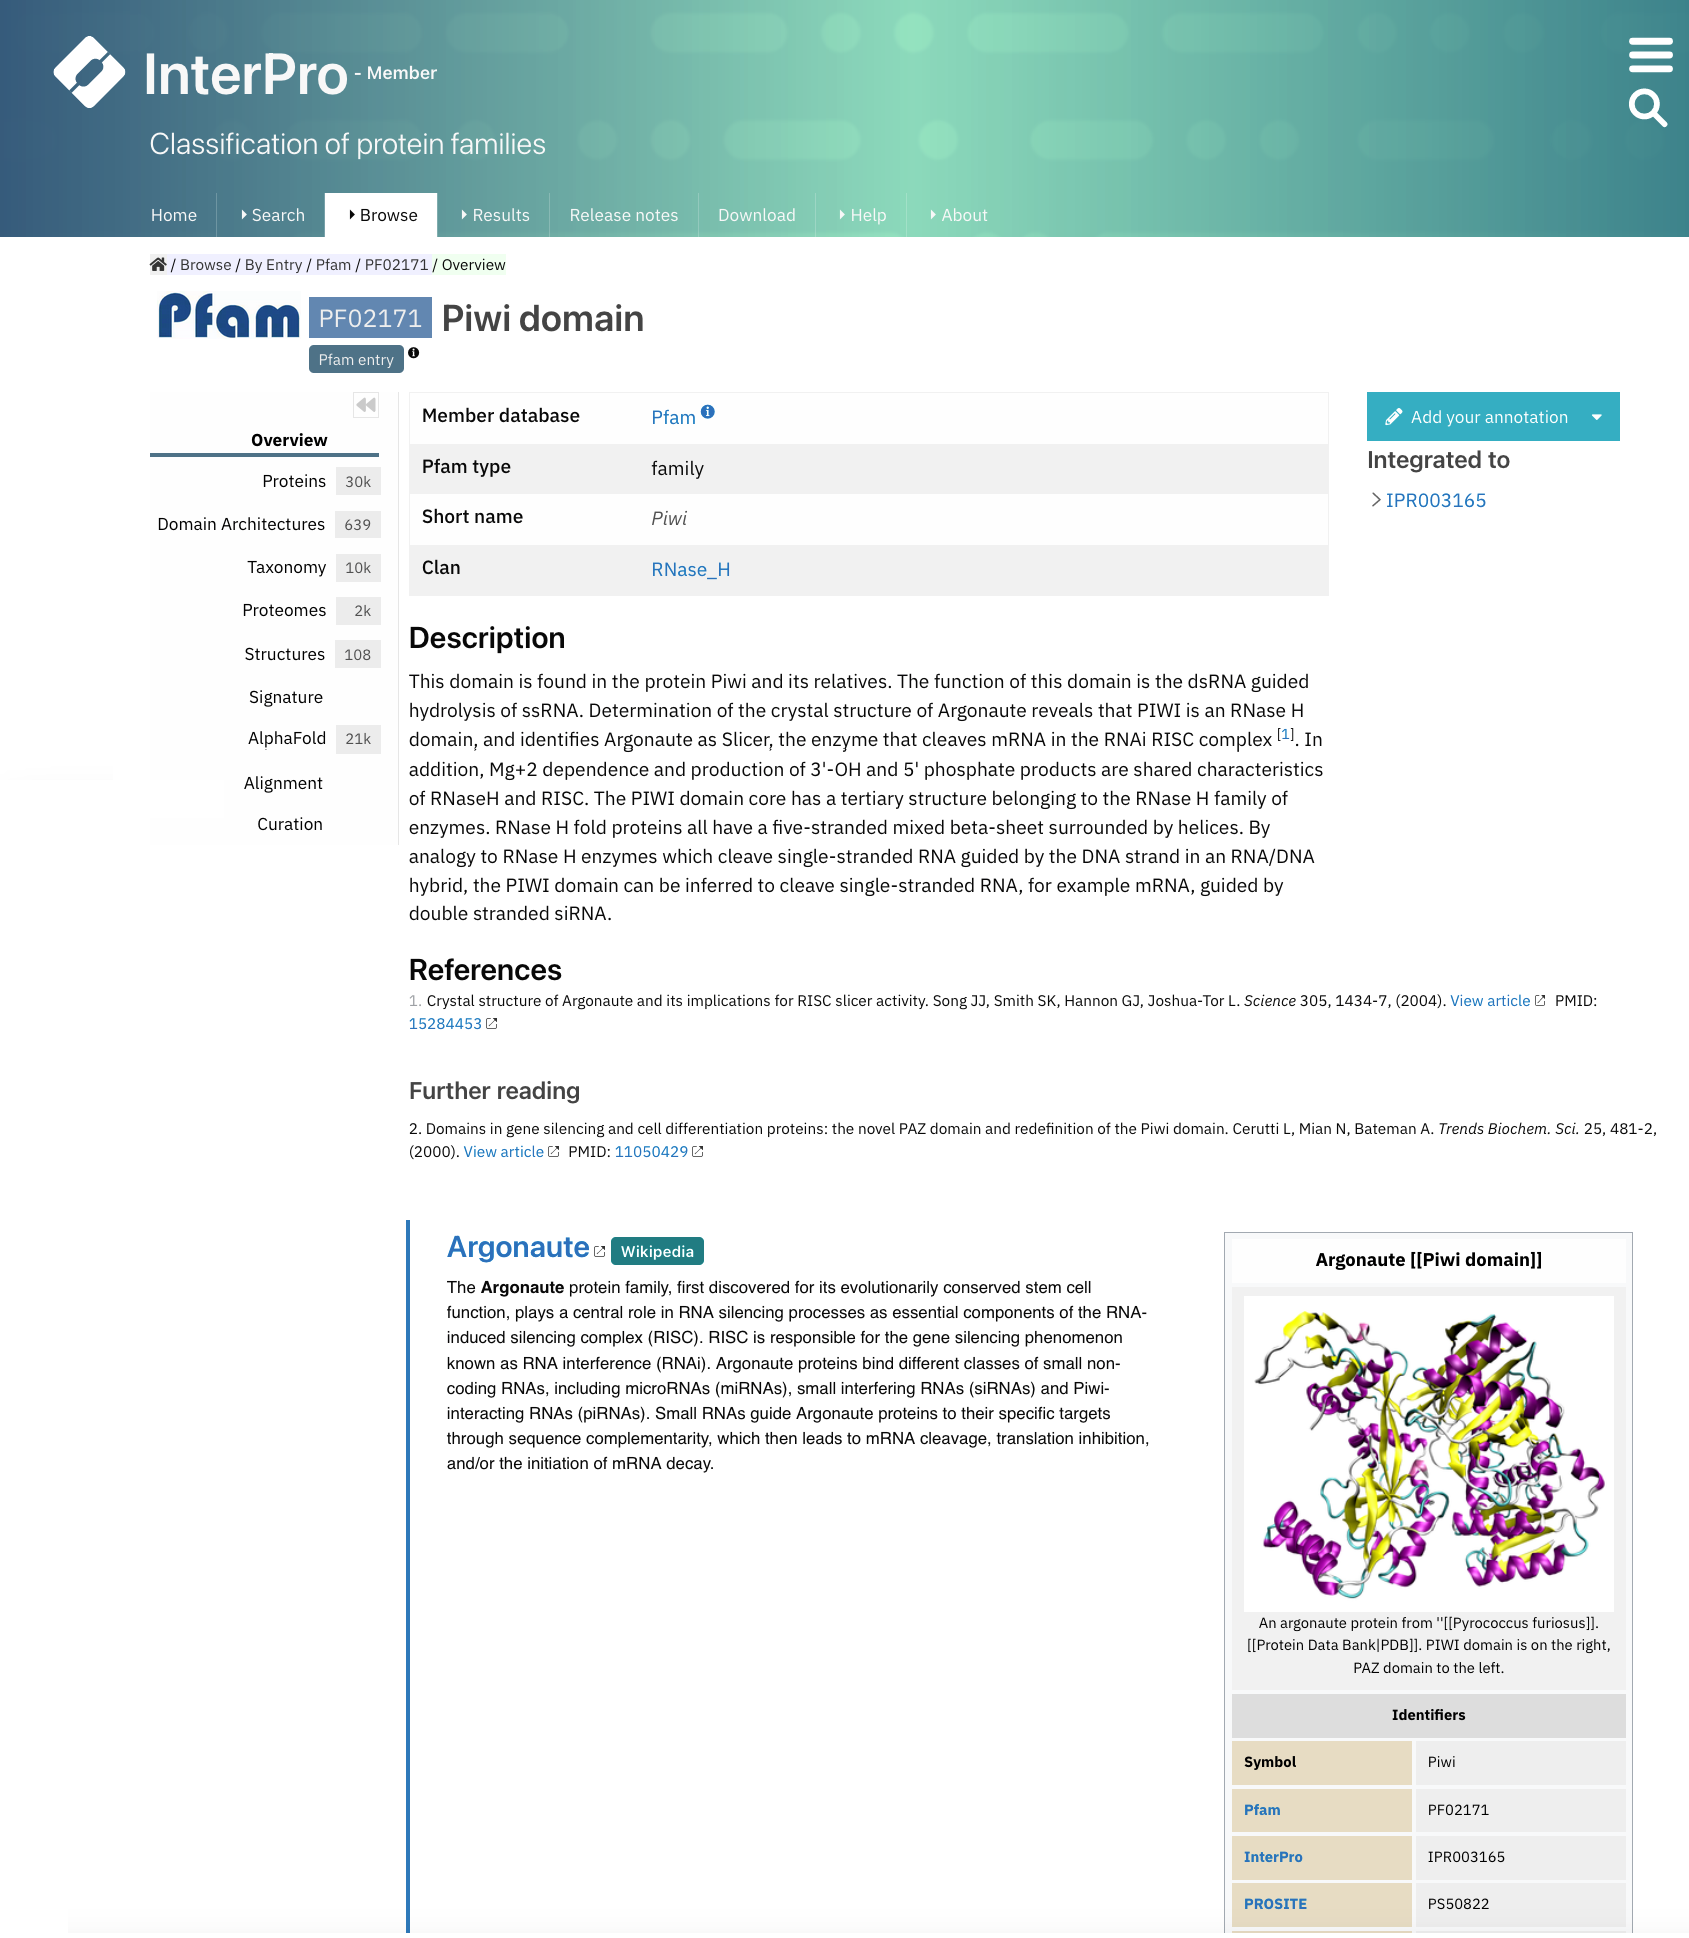
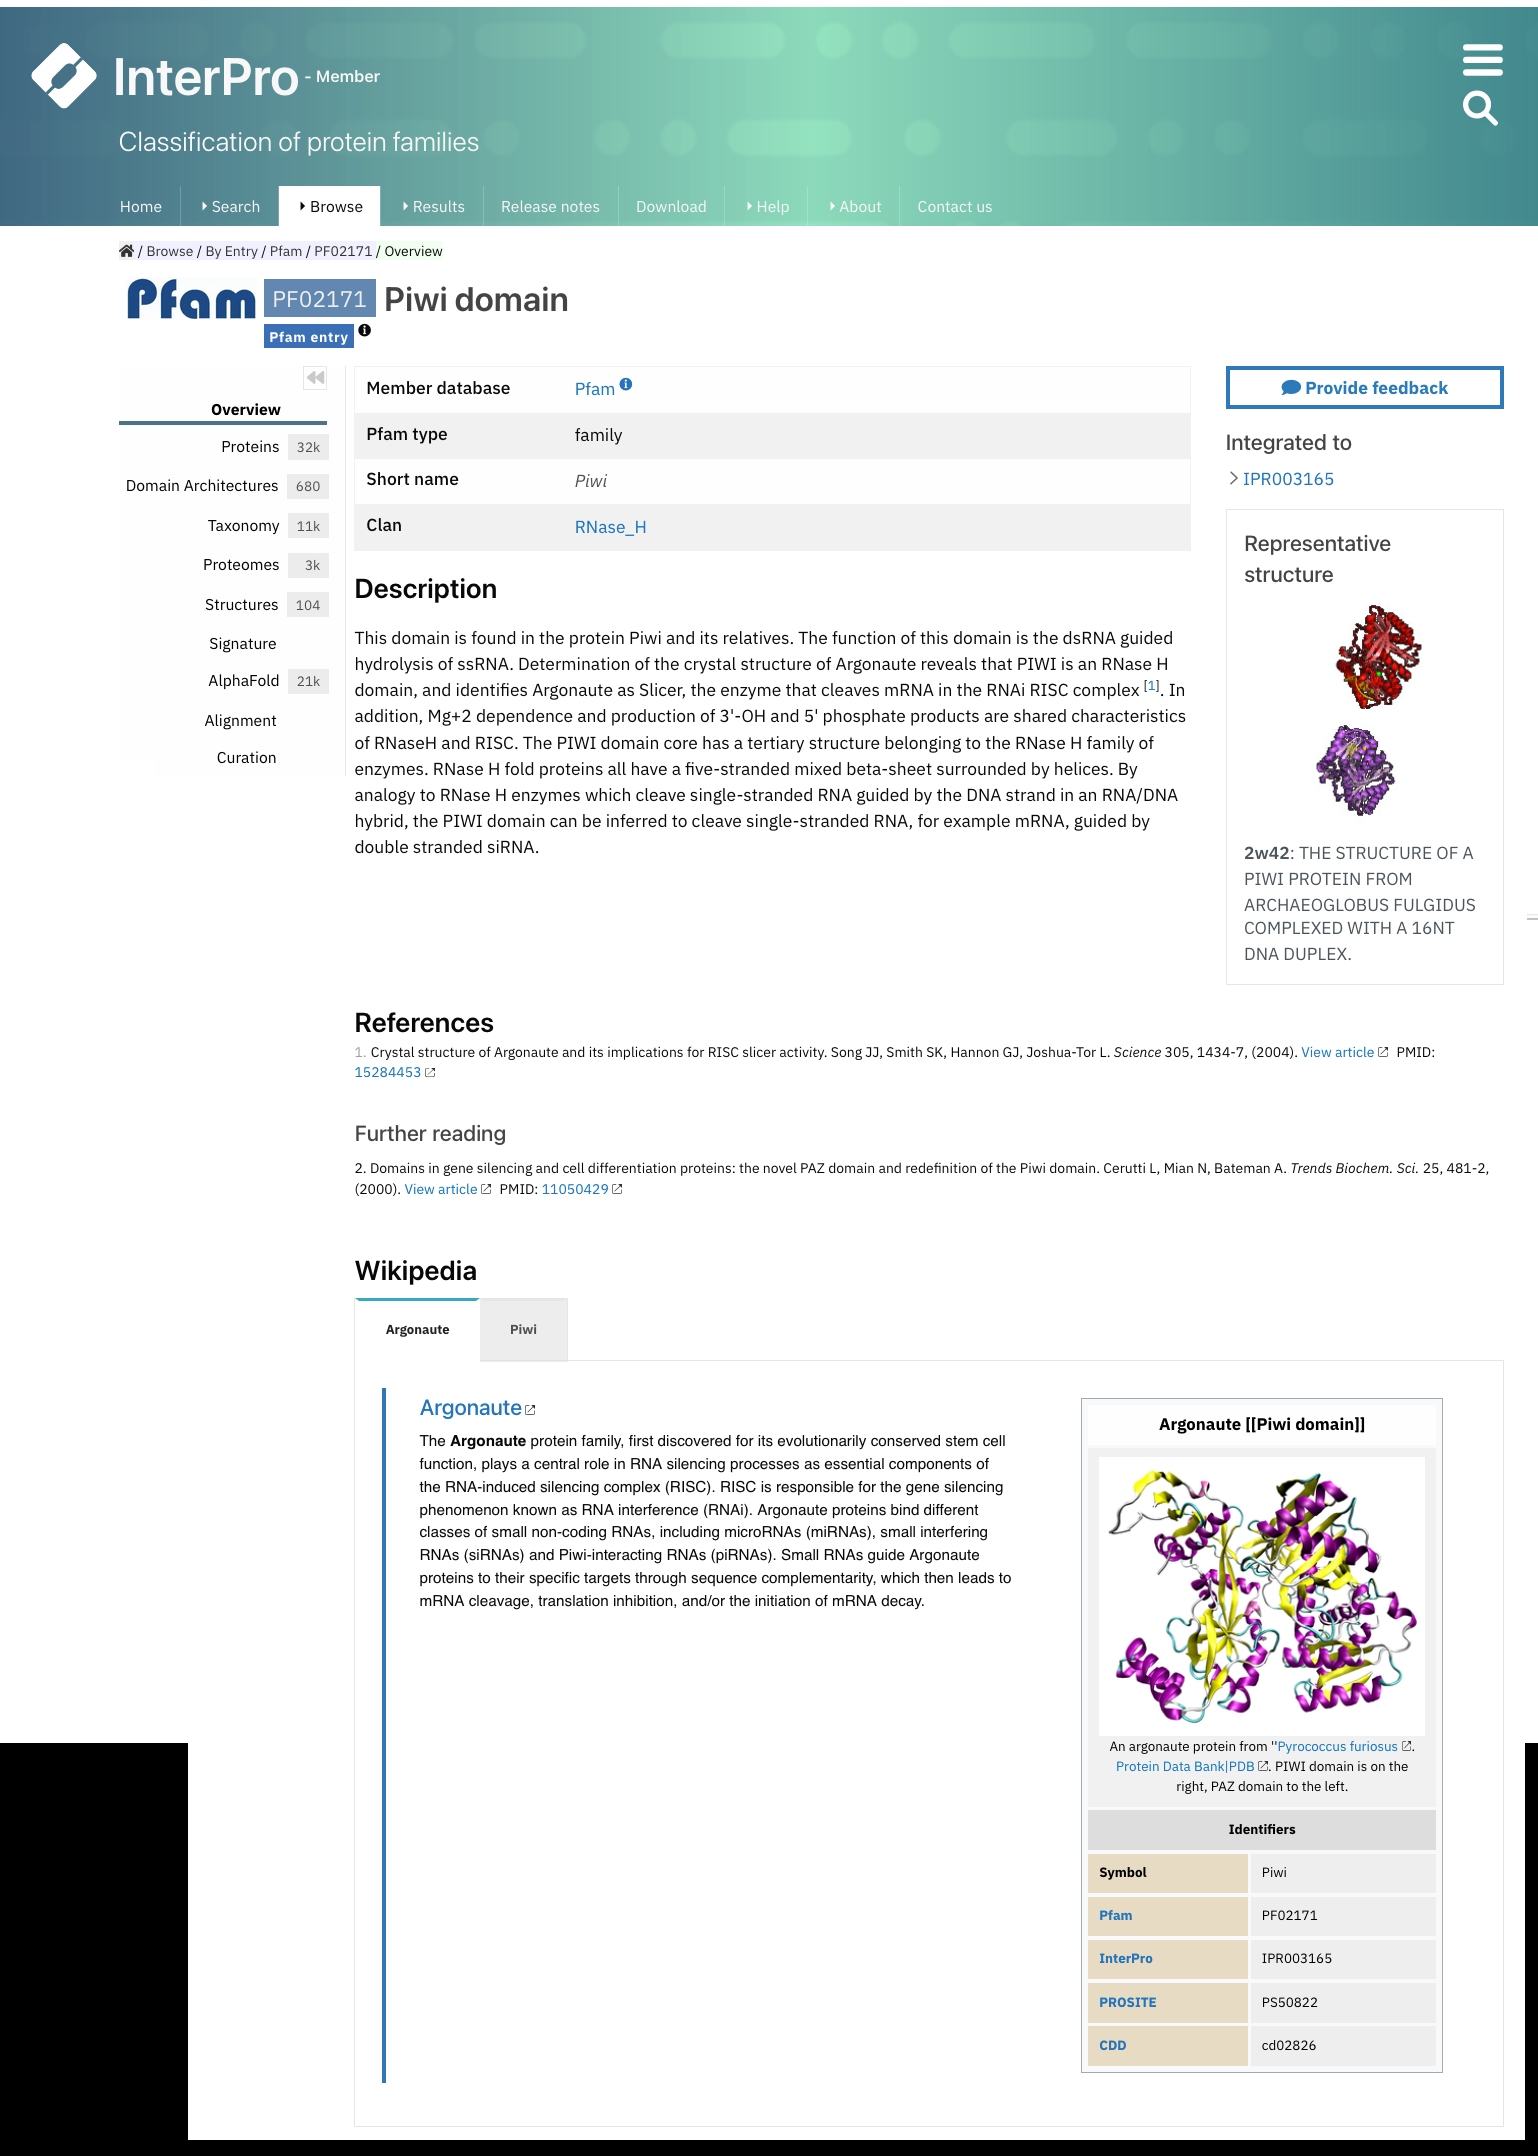
Updated for InterPro 101.0

Changed region(s): [[0.0, 0.0, 1.0, 1.0], [0.7802, 0.1548, 0.9675, 0.4334]]

diff --git a/docs/pfam-entry.rst b/docs/pfam-entry.rst
@@ -234,8 +234,9 @@ to minimise false positives (although they are unavoidable sometimes). The Pfam 
 UniProtKB database before every InterPro release and these are the matches shown in the :ref:`proteins` tab on the Pfam entry page.
 
 Different Pfam entries have annotations providing diverse amounts of information. Many of them have a description created 
-by Pfam curators. Anyone can contribute to this annotation by contacting directly the curators through the **Add your 
-annotation** toolbox located on the right-hand side of the **Overview** tab.
+by Pfam curators. Anyone can contribute to this annotation by contacting directly the curators through the **Provide
+ feedback** button located on the right-hand side of the **Overview** tab. This button links to a **Feedback** subpage 
+ that allows the user to suggest updates.
 
 If you know of a domain that is not present in Pfam, you can submit it to the `Pfam helpdesk <https://www.ebi.ac.uk/about/contact/support/pfam>`_ 
 and we will endeavour to build a Pfam entry for it. We ask that you supply us with a multiple sequence alignment of the domain 
@@ -247,7 +248,7 @@ Word (e.g. a .doc) file), and associated literature evidence if available.
   :width: 700
   :align: left
 
-  Select **Add your annotation** to give feedback to curators.
+  Select **Provide feedback** to give feedback to curators.
 
 In addition, Pfam encourages the annotation of Pfam families via Wikipedia. Below the traditional description of the Pfam entry, 
 you may find the text from a Wikipedia article that we feel provides a good description of the Pfam family. 

diff --git a/docs/searching-pfam.rst b/docs/searching-pfam.rst
@@ -11,14 +11,17 @@ Searching a specific Pfam entry
 Users can navigate to specific Pfam entry pages by entering the Pfam identifier or accession number or a keyword that form part of its name 
 via three different **Search boxes**:
 
-1. When selecting the `Browse + By member database <https://www.ebi.ac.uk/interpro/entry/pfam/#table>`_ option, the search box is located in the header of the results table.
-
+1. When selecting the `Browse + By member database <https://www.ebi.ac.uk/interpro/entry/pfam/#table>`_ option, 
+the search box is located in the header of the results table.
+The user can filter these results by **Member Database Entry Type** and **InterPro state** as well as order the results 
+by accession in ascendent or descendent order by clicling on the arrow at the right side of the column title **Accession**.
 .. figure:: images/browsebymbdbpfam.png
   :alt: Selecting the 'Browse + By member database' option and Pfam.
   :width: 700
   :align: left
 
-  Example of browsing the Pfam database. A paginated list of all available Pfam entries is displayed. A **Search box** appears on top of this list.
+  Example of browsing the Pfam database. A paginated list of all available Pfam entries is displayed. 
+  A **Search box** appears on top of this list.
 
 2. After selecting `Search + By text <https://www.ebi.ac.uk/interpro/search/text/>`_, a larger text box is shown in the center of the page.
 
